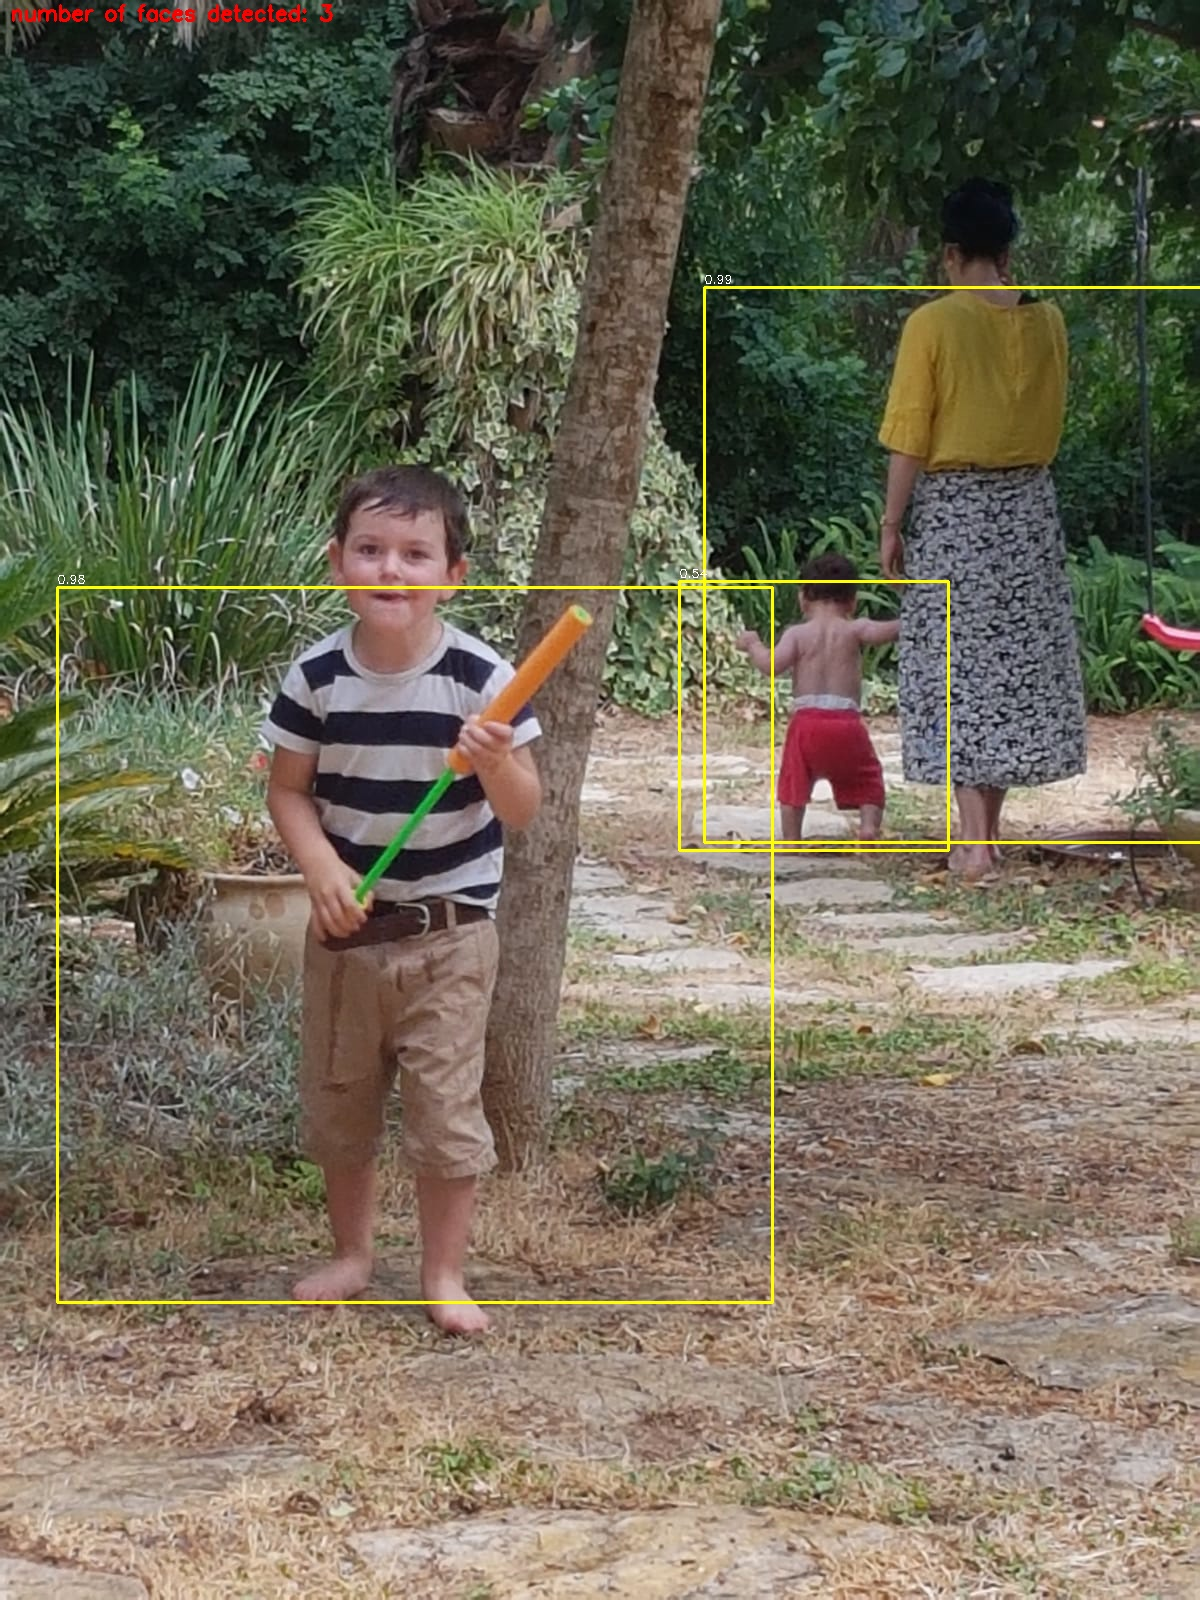
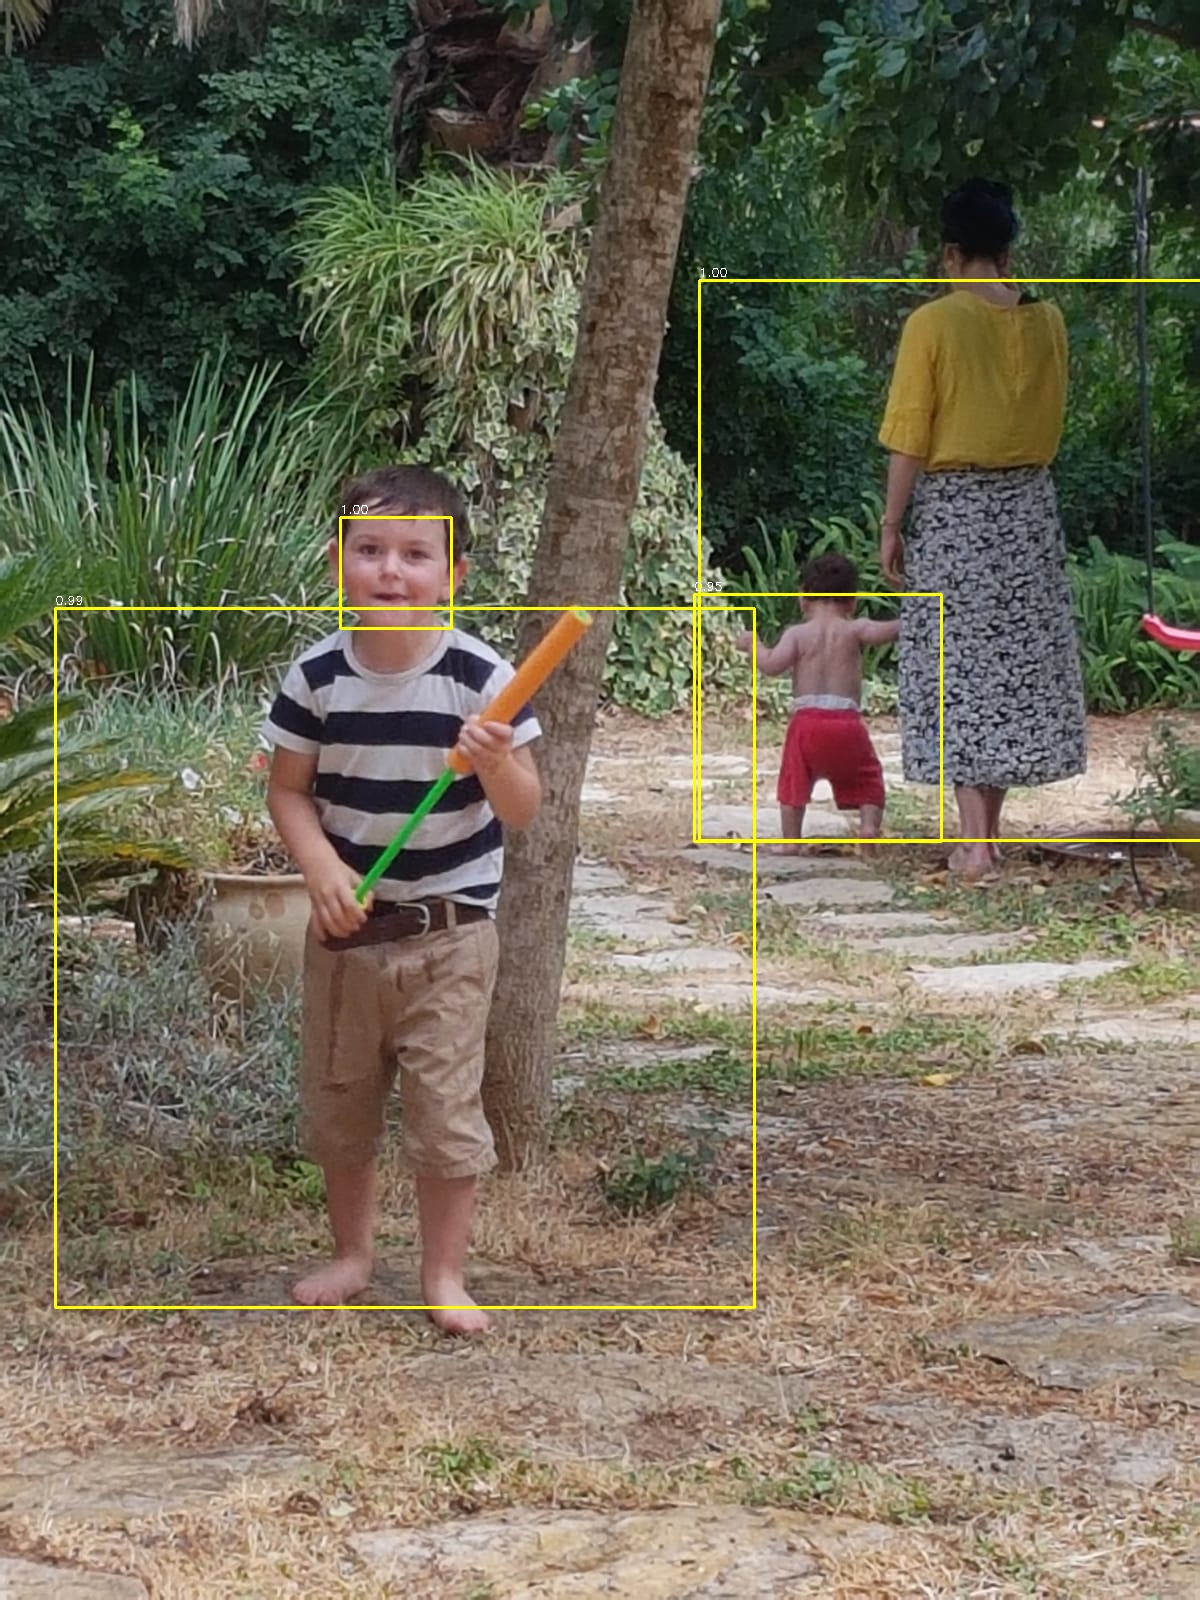
added the second layer - now we have layer for body and layer for face. starting to classify between adults and children.

Changed region(s): [[0.0308, 0.2812, 1.0, 0.8438], [0.5858, 0.1562, 1.0, 0.1875], [0.0, 0.0, 0.2775, 0.0312]]

diff --git a/yoloface.py b/yoloface.py
@@ -29,6 +29,10 @@ from utils import *
 # print('[i] Path to video file: ', args.video)
 # print('###########################################################\n')
 
+FULL_CFG_PATH = "./cfg/yolov3-spp.cfg"
+FULL_WEIGHTS_PATH = "./model-weights/yolov3-spp.weights"
+
+
 def load_args_and_model():
     parser = argparse.ArgumentParser()
     parser.add_argument('--model-cfg', type=str,
@@ -57,17 +61,21 @@ def load_args_and_model():
 
     # Give the configuration and weight files for the model and load the network
     # using them.
-    net = cv2.dnn.readNetFromDarknet(args.model_cfg, args.model_weights)
-    net.setPreferableBackend(cv2.dnn.DNN_BACKEND_OPENCV)
-    net.setPreferableTarget(cv2.dnn.DNN_TARGET_CPU)
+    face_net = cv2.dnn.readNetFromDarknet(args.model_cfg, args.model_weights)
+    face_net.setPreferableBackend(cv2.dnn.DNN_BACKEND_OPENCV)
+    face_net.setPreferableTarget(cv2.dnn.DNN_TARGET_CPU)
 
-    return net, args
+    body_net = cv2.dnn.readNetFromDarknet(FULL_CFG_PATH, FULL_WEIGHTS_PATH)
+    body_net.setPreferableBackend(cv2.dnn.DNN_BACKEND_OPENCV)
+    body_net.setPreferableTarget(cv2.dnn.DNN_TARGET_CPU)
+
+    return face_net, body_net, args
 
 
 def _main():
     wind_name = 'face detection using YOLOv3'
     cv2.namedWindow(wind_name, cv2.WINDOW_NORMAL)
-    net, args = load_args_and_model()
+    face_net, body_net, args = load_args_and_model()
     output_file = ''
     identify_flag = False
 
@@ -111,25 +119,28 @@ def _main():
                                      [0, 0, 0], 1, crop=False)
 
         # Sets the input to the network
-        net.setInput(blob)
+        face_net.setInput(blob)
+        body_net.setInput(blob)
 
         # Runs the forward pass to get output of the output layers
-        outs = net.forward(get_outputs_names(net))
+        face_outs = face_net.forward(get_outputs_names(face_net))
+        body_outs = body_net.forward(get_outputs_names(body_net))
 
         # Remove the bounding boxes with low confidence
-        faces = post_process(frame, outs, CONF_THRESHOLD, NMS_THRESHOLD)
-        if len(faces) > 0:
+        faces = post_process(frame, face_outs, CONF_THRESHOLD, NMS_THRESHOLD, True)
+        bodies = post_process(frame, body_outs, CONF_THRESHOLD, NMS_THRESHOLD, False)
+        if len(faces) > 0 and len(bodies) > 0:
             identify_flag = True
 
         # initialize the set of information we'll displaying on the frame
-        info = [
-            ('number of faces detected', '{}'.format(len(faces)))
-        ]
-
-        for (i, (txt, val)) in enumerate(info):
-            text = '{}: {}'.format(txt, val)
-            cv2.putText(frame, text, (10, (i * 20) + 20),
-                        cv2.FONT_HERSHEY_SIMPLEX, 0.7, COLOR_RED, 2)
+        # info = [
+        #     ('number of faces detected', '{}'.format(len(faces)))
+        # ]
+        #
+        # for (i, (txt, val)) in enumerate(info):
+        #     text = '{}: {}'.format(txt, val)
+        #     cv2.putText(frame, text, (10, (i * 20) + 20),
+        #                 cv2.FONT_HERSHEY_SIMPLEX, 0.7, COLOR_RED, 2)
 
         # Save the output video to file
         if args.image:

diff --git a/utils.py b/utils.py
@@ -49,9 +49,19 @@ def get_outputs_names(net):
 
 
 # Draw the predicted bounding box
-def draw_predict(frame, conf, left, top, right, bottom):
+def draw_predict(frame, conf, left, top, right, bottom, head_body_flag, faces_list,
+                 bodies_list):
     # Draw a bounding box.
     cv2.rectangle(frame, (left, top), (right, bottom), COLOR_YELLOW, 2)
+
+    if head_body_flag:
+        faces_list.append
+        print("size of head: {:.2f}".format(bottom - top))
+        print("head coordinates: ({}, {}), ({},{})".format(left,top,right,bottom))
+    else:
+        print("size of body: {:.2f}".format(bottom - top))
+        print("body coordinates: ({}, {}), ({},{})".format(left, top, right,
+                                                           bottom))
 
     text = '{:.2f}'.format(conf)
 
@@ -63,9 +73,12 @@ def draw_predict(frame, conf, left, top, right, bottom):
                 COLOR_WHITE, 1)
 
 
-def post_process(frame, outs, conf_threshold, nms_threshold):
+def post_process(frame, outs, conf_threshold, nms_threshold, head_body_flag):
     frame_height = frame.shape[0]
     frame_width = frame.shape[1]
+
+    faces_list = list()
+    bodies_list = list()
 
     # Scan through all the bounding boxes output from the network and keep only
     # the ones with high confidence scores. Assign the box's class label as the
@@ -106,7 +119,7 @@ def post_process(frame, outs, conf_threshold, nms_threshold):
         left, top, right, bottom = refined_box(left, top, width, height)
         # draw_predict(frame, confidences[i], left, top, left + width,
         #              top + height)
-        draw_predict(frame, confidences[i], left, top, right, bottom)
+        draw_predict(frame, confidences[i], left, top, right, bottom, head_body_flag)
     return final_boxes
 
 
@@ -138,6 +151,7 @@ class FPS:
     def fps(self):
         # compute the (approximate) frames per second
         return self._num_frames / self.elapsed()
+
 
 def refined_box(left, top, width, height):
     right = left + width
